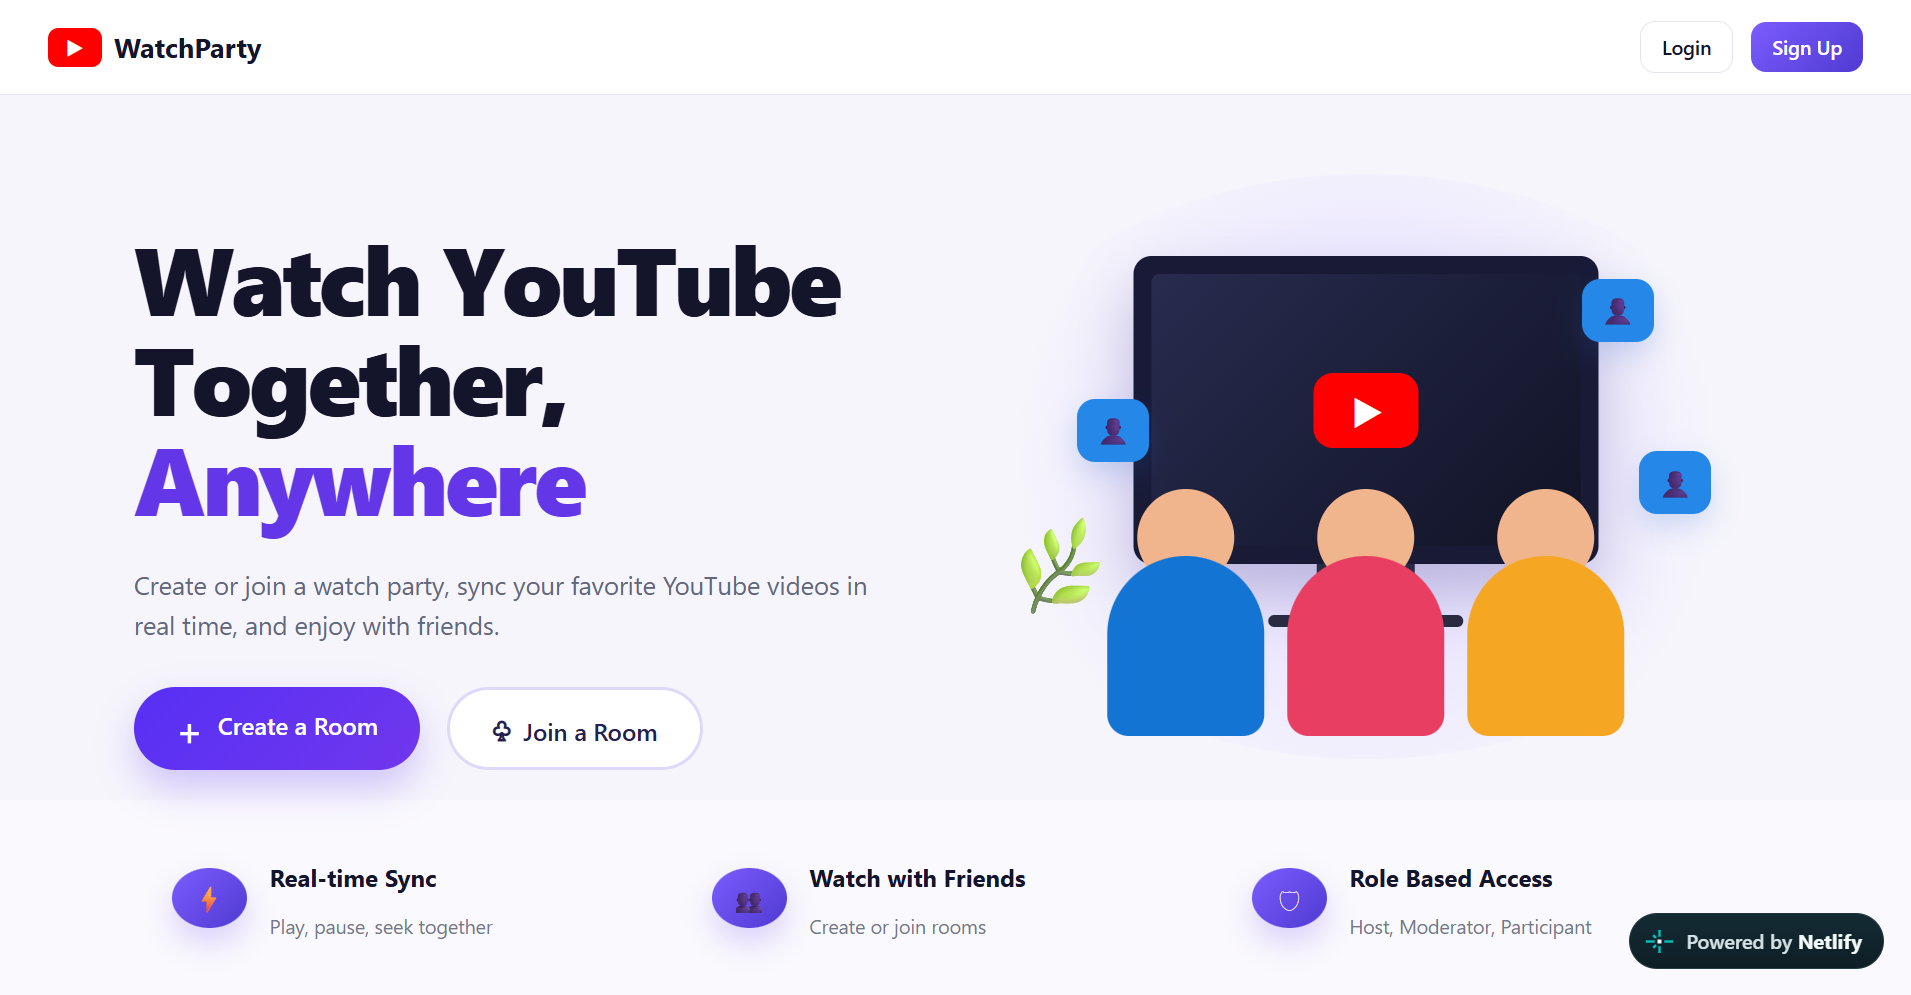
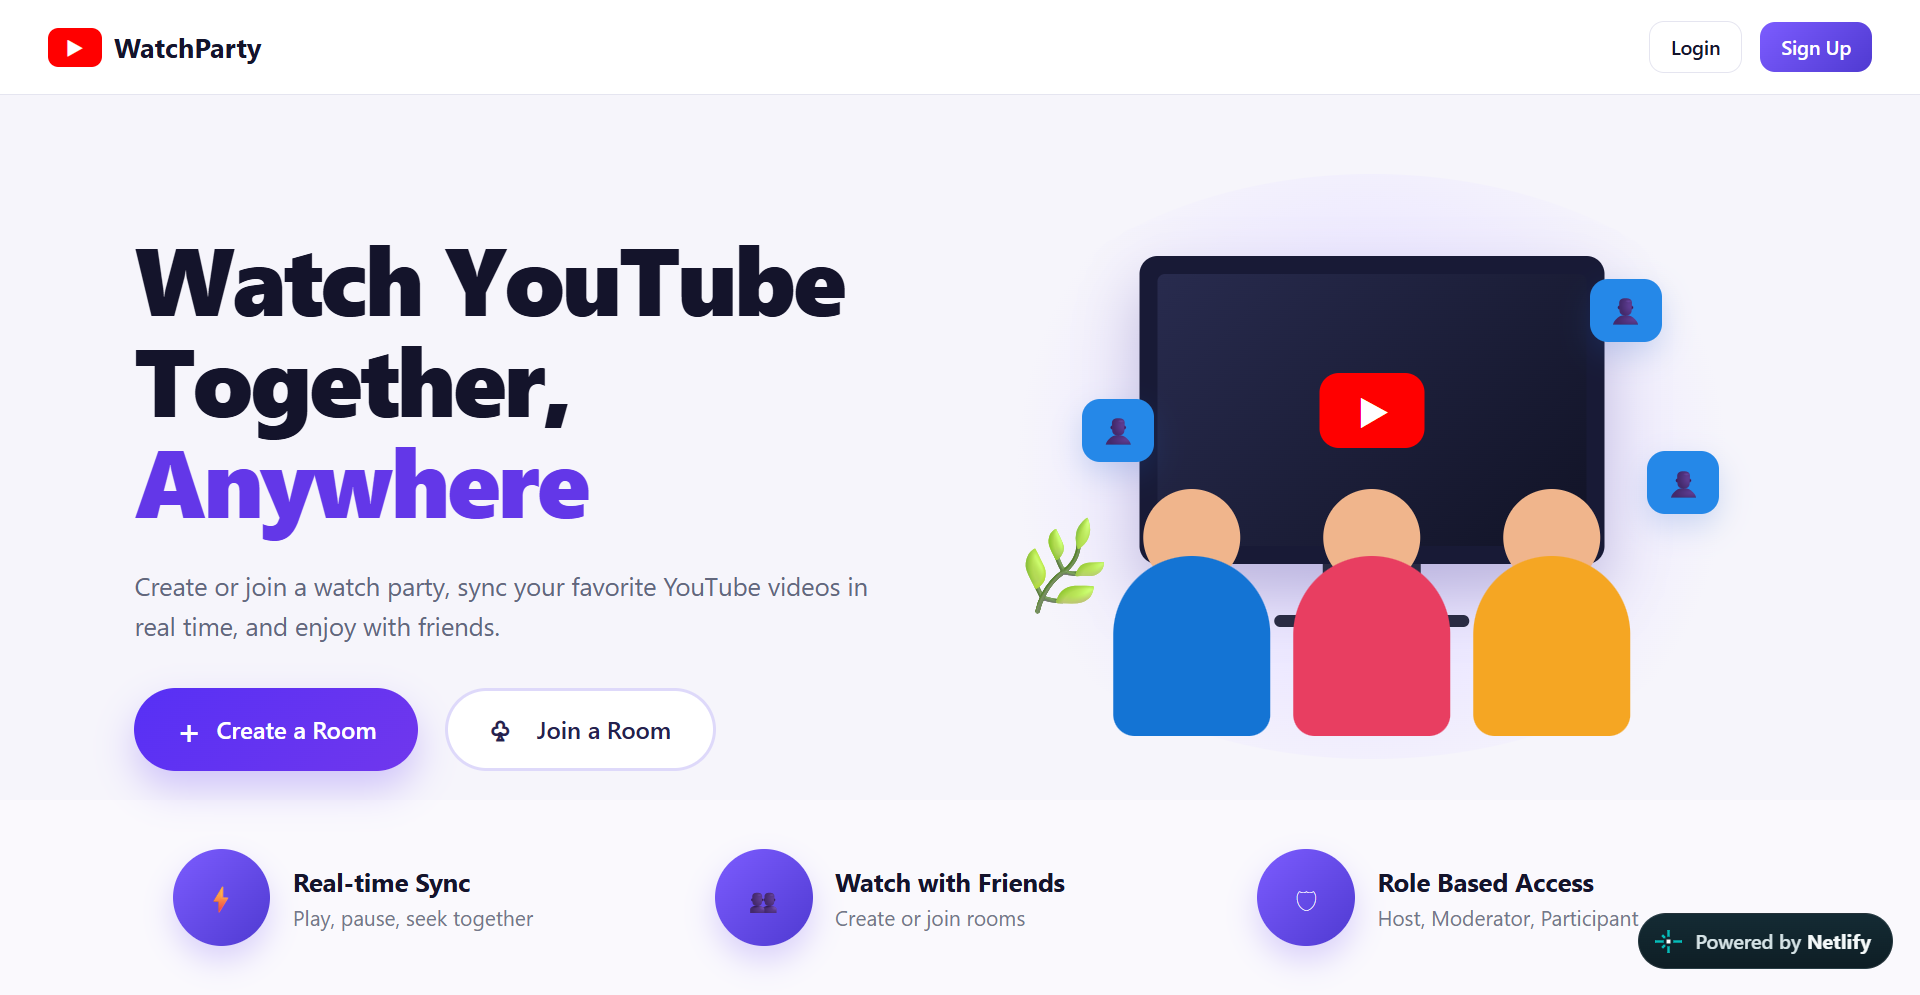
upload readme file

diff --git a/frontend/src/pages/Home.css b/frontend/src/pages/Home.css
@@ -61,18 +61,17 @@
 .create-room-btn,
 .join-room-btn {
   height: 55px;
-
   padding: 0 28px;
-
   border-radius: 30px;
-
   font-size: 16px;
-
   font-weight: 600;
-
   cursor: pointer;
-
   transition: all 0.25s ease;
+
+  display: flex;
+  align-items: center;
+  justify-content: center;
+  gap: 10px;
 }
 
 .create-room-btn {
@@ -94,7 +93,7 @@
   background: white;
 
   border: 2px solid #ded9fa;
-
+  
   color: #25214e;
 }
 
@@ -104,11 +103,8 @@
 }
 
 .plus-icon {
-  font-size: 26px;
-
-  margin-right: 10px;
-
-  vertical-align: middle;
+  font-size: 24px;
+  line-height: 2;
 }
 
 .people-icon {
@@ -402,13 +398,12 @@
 }
 
 .feature-icon {
-  min-width: 50px;
-  height: 100px;
-
-  border-radius: 50%;
+  /* width: 80px;
+  min-width: 80px; */
+  /* height: 80px; */
+  /* border-radius: 50%; */
 
   display: flex;
-
   align-items: center;
   justify-content: center;
 
@@ -419,7 +414,6 @@
   );
 
   color: white;
-
   font-size: 25px;
 
   box-shadow:
@@ -427,18 +421,17 @@
 }
 
 .feature-card h3 {
-  font-size: 16px;
-
-  margin-bottom: 6px;
+  font-size: 17px;
+  margin: 0 0 3px 0;
 }
 
 .feature-card p {
   color: #73778a;
-
-  font-size: 13px;
+  font-size: 14px;
+  margin: 0;
 }
 
-@media (max-width: 1000px) {
+@media (max-with: 1000px) {
 
   .hero-section {
     flex-direction: column;

diff --git a/frontend/src/pages/WatchRoom.jsx b/frontend/src/pages/WatchRoom.jsx
@@ -225,8 +225,7 @@ export default function WatchRoom() {
 
               {canControl && (
                 <button
-                  className="btn btn-outline btn-sm"
-                  style={{ color: "#14142b" }}
+                  className="h-11 px-5 bg-white text-[#14142b] border border-gray-300 rounded-xl font-medium hover:bg-gray-100 transition-all duration-200"
                   onClick={() => setShowChangeVideo(true)}
                 >
                   🔗 Change Video

diff --git a/backend/server.js b/backend/server.js
@@ -11,8 +11,8 @@ const roomRoutes = require("./routes/roomRoutes");
 const registerSocketHandlers = require("./socket/socketHandler");
 
 //Connect Frontend to backend  using CORS
-const PORT = process.env.PORT ;
-const CLIENT_ORIGIN = process.env.CLIENT_ORIGIN || "https://youtube-watch-party-2-7698.onrender.com";
+const PORT = process.env.PORT  ;
+const CLIENT_ORIGIN = process.env.CLIENT_ORIGIN ||"https://youtubewatchliveparty.netlify.app";
 
 
 const app = express();

diff --git a/frontend/src/pages/Signup.jsx b/frontend/src/pages/Signup.jsx
@@ -33,7 +33,7 @@ export default function Signup() {
       <Navbar />
       <div className="auth-wrapper">
         <div className="auth-card">
-          <span className="youtube-icon">▶</span>
+          <span className="youtube-icon"></span>
           <h2>Create an Account</h2>
           <p className="subtitle">Join now and start your watch party</p>
 

diff --git a/frontend/src/pages/Login.jsx b/frontend/src/pages/Login.jsx
@@ -32,7 +32,7 @@ export default function Login() {
       <Navbar />
       <div className="auth-wrapper">
         <div className="auth-card">
-          <span className="youtube-icon">▶</span>
+          <span className="youtube-icon"></span>
           <h2>Welcome Back</h2>
           <p className="subtitle">Login to continue watching together</p>
 

diff --git a/frontend/src/pages/CreateRoom.jsx b/frontend/src/pages/CreateRoom.jsx
@@ -32,7 +32,7 @@ export default function CreateRoom() {
   return (
     <div className="page">
       <Navbar />
-      <Link to="/" className="back-link">
+      <Link to="/Dashboard" className="back-link">
         ← Back
       </Link>
 

diff --git a/frontend/src/styles/global.css b/frontend/src/styles/global.css
@@ -201,8 +201,8 @@ input, select {
 }
 
 .feature-icon {
-  width: 40px;
-  height: 40px;
+  width: 65px;
+  height: 65px;
   border-radius: 50%;
   background: var(--gradient);
   color: white;

diff --git a/frontend/src/pages/Home.jsx b/frontend/src/pages/Home.jsx
@@ -154,7 +154,6 @@ export default function Home() {
 
           <div>
             <h3>Watch with Friends</h3>
-
             <p>
               Create or join rooms
             </p>

diff --git a/README.md b/README.md
@@ -2,7 +2,7 @@
 
 A real-time, synchronized YouTube watching app — create a room, share the room code with friends, and watch a video together with synced play/pause/seek, live chat, and host/moderator controls.
 
-**Live Demo:** [https://youtubewatchliveparty.netlify.app/](https://youtubewatchliveparty.netlify.app)
+**Live Demo:** [https://youtubewatchliveparty.netlify.app](https://youtubewatchliveparty.netlify.app)
 
 ---
 
